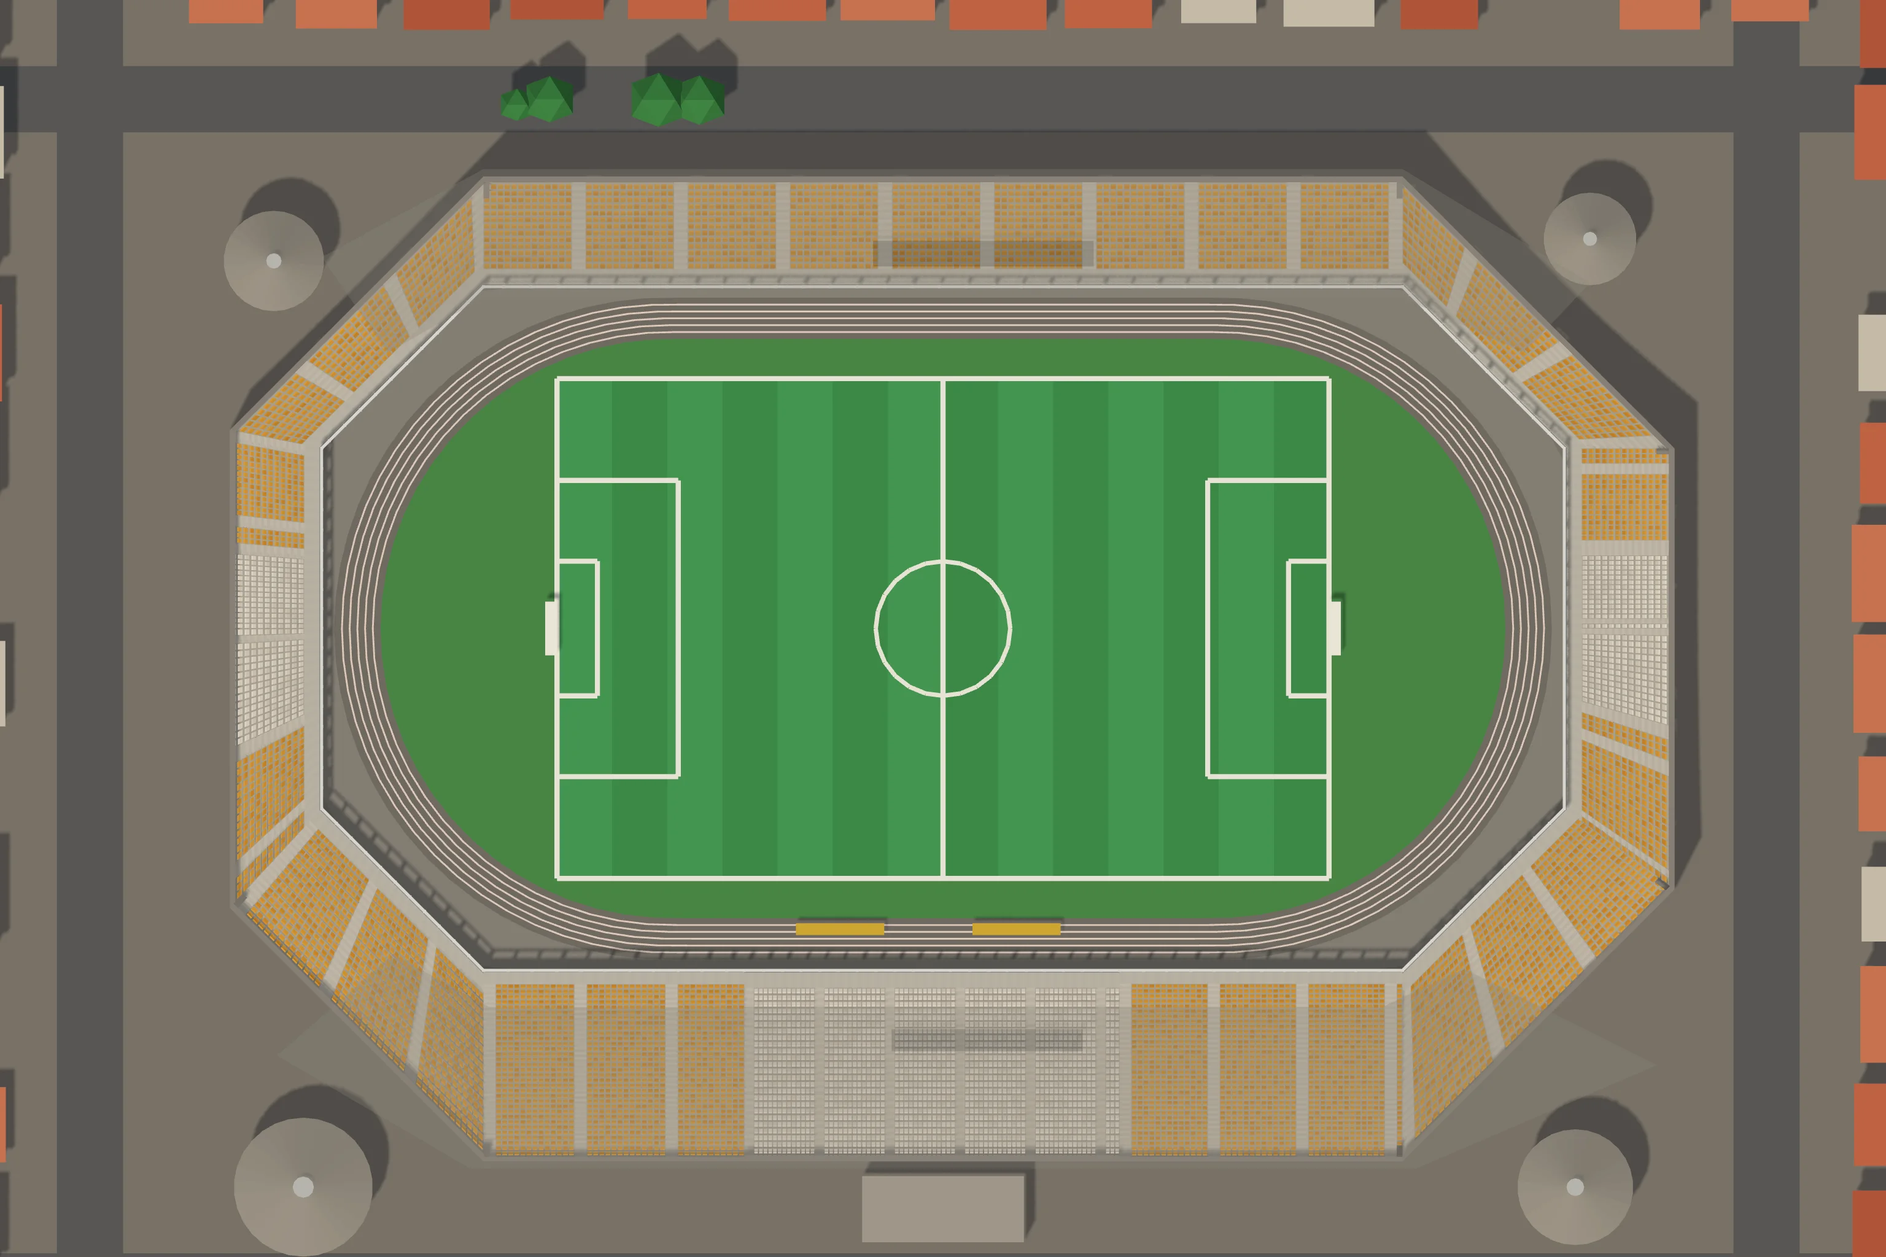
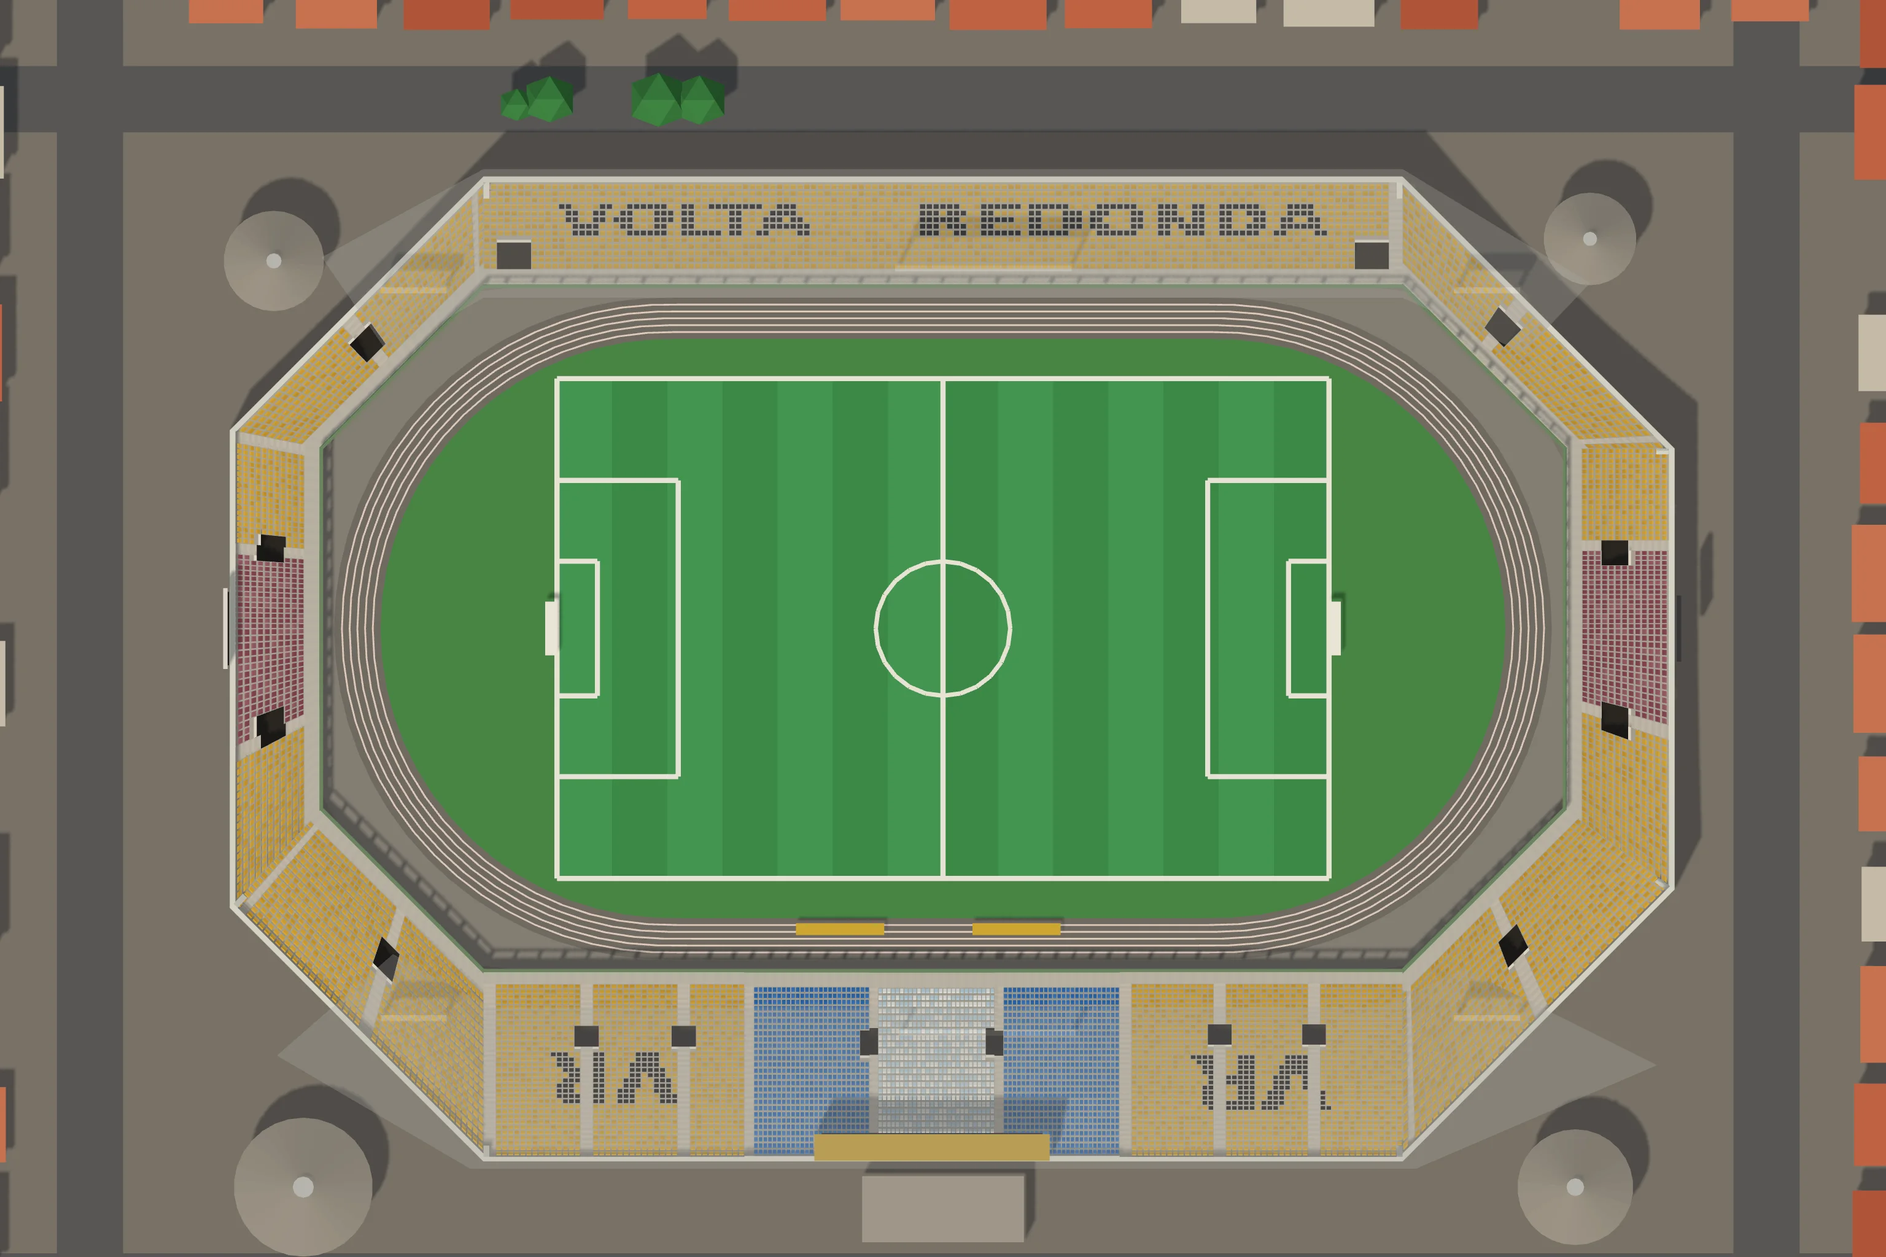
Raulino de Oliveira pelas fotos do dono: VOLTA REDONDA e VR em cadeira preta, bloco azul, grená nos fundos, bocas e torres de luz
Claude-Session: https://claude.ai/code/session_019hwwMAyyP7ZAvyq6wYTetr

diff --git a/cenario3d/planta.html b/cenario3d/planta.html
@@ -289,24 +289,24 @@ button:focus-visible, input:focus-visible { outline: 2px solid var(--selecao); o
 
 <script type="module">
 import * as THREE from 'https://cdn.jsdelivr.net/npm/three@0.160.0/build/three.module.min.js';
-import { planoDaCasa, montarCasa, juntarBlocos, lugarDoDecalque, placasDoLote, segmentosDoMuro, carrosDoEstacionamento, portaoDoEstacionamento } from './js/casas3d.js?v=86bfd87f3f';
-import { montarModelos } from './js/modelos3d.js?v=86bfd87f3f';
-import { moldeDaPeca, comTransformador } from './js/props3d.js?v=86bfd87f3f';
-import { ATLAS } from './js/modelos_atlas.js?v=86bfd87f3f';
-import { Construtor, sorteio } from './js/construtor3d.js?v=86bfd87f3f';
-import { gerarProposta, MAPAS, MAPA_DO_PORTE, RUA, LONGE_DO_ESTADIO_M, cisaoDaPraca, VAO_CIDADES_M, PRAIA_A_MAIS } from './js/proposta.js?v=86bfd87f3f';
-import { montarSede, nivelQueCabe } from './js/sede3d.js?v=86bfd87f3f';
-import { onibus as onibusDetalhe, juntar as juntarDetalhe } from './js/detalhe3d.js?v=86bfd87f3f';
-import { montarLoteDeVeraneio, plantaDoLote, festaNoMundo, noMundoDoLote, cenaDaFesta, detalheDaCasaDaFesta } from './js/veraneio3d.js?v=86bfd87f3f';
-import { montarCaravana, cenaDaCaravana } from './js/caravana3d.js?v=86bfd87f3f';
-import { montarEstacao, montarTunel, montarCarro, TREM } from './js/metro3d.js?v=86bfd87f3f';
-import { montarShopping, montarDelegacia, montarPraca, montarIgreja, montarEscola, montarHospital } from './js/equip3d.js?v=86bfd87f3f';
-import { montarEquipAntigo, TIPOS_ANTIGOS } from './js/equip_antigo3d.js?v=86bfd87f3f';
-import { PECAS_PRAIA, montarPecaDaPraia } from './js/praia3d.js?v=86bfd87f3f';
-import { ESPECIES_LP, FLORA_LP, montarArvoreLowpoly, montarAsDez, facesDaArvore, especieLowpolyDe } from './js/arvores_lowpoly.js?v=86bfd87f3f';
-import { plantarMato, montarMato, LONGE_M, DENSIDADE, LADRILHO_M } from './js/mato3d.js?v=86bfd87f3f';
-import { ESTADIOS_JOGO, montarEstadioJogo, glbDoEstadio, cortarEstadio, plantaDoEstadio, modeloDaLotacao, nomeDoLetreiro, nomeComAcento, marcaDoEstadio, BOCAS_DOS_PORTOES, BILHETERIAS_DA_RUA } from './js/estadios3d.js?v=86bfd87f3f';
-import { PECAS_AMBULANTES, montarAmbulante } from './js/ambulantes3d.js?v=86bfd87f3f';
+import { planoDaCasa, montarCasa, juntarBlocos, lugarDoDecalque, placasDoLote, segmentosDoMuro, carrosDoEstacionamento, portaoDoEstacionamento } from './js/casas3d.js?v=fe04cb4e07';
+import { montarModelos } from './js/modelos3d.js?v=fe04cb4e07';
+import { moldeDaPeca, comTransformador } from './js/props3d.js?v=fe04cb4e07';
+import { ATLAS } from './js/modelos_atlas.js?v=fe04cb4e07';
+import { Construtor, sorteio } from './js/construtor3d.js?v=fe04cb4e07';
+import { gerarProposta, MAPAS, MAPA_DO_PORTE, RUA, LONGE_DO_ESTADIO_M, cisaoDaPraca, VAO_CIDADES_M, PRAIA_A_MAIS } from './js/proposta.js?v=fe04cb4e07';
+import { montarSede, nivelQueCabe } from './js/sede3d.js?v=fe04cb4e07';
+import { onibus as onibusDetalhe, juntar as juntarDetalhe } from './js/detalhe3d.js?v=fe04cb4e07';
+import { montarLoteDeVeraneio, plantaDoLote, festaNoMundo, noMundoDoLote, cenaDaFesta, detalheDaCasaDaFesta } from './js/veraneio3d.js?v=fe04cb4e07';
+import { montarCaravana, cenaDaCaravana } from './js/caravana3d.js?v=fe04cb4e07';
+import { montarEstacao, montarTunel, montarCarro, TREM } from './js/metro3d.js?v=fe04cb4e07';
+import { montarShopping, montarDelegacia, montarPraca, montarIgreja, montarEscola, montarHospital } from './js/equip3d.js?v=fe04cb4e07';
+import { montarEquipAntigo, TIPOS_ANTIGOS } from './js/equip_antigo3d.js?v=fe04cb4e07';
+import { PECAS_PRAIA, montarPecaDaPraia } from './js/praia3d.js?v=fe04cb4e07';
+import { ESPECIES_LP, FLORA_LP, montarArvoreLowpoly, montarAsDez, facesDaArvore, especieLowpolyDe } from './js/arvores_lowpoly.js?v=fe04cb4e07';
+import { plantarMato, montarMato, LONGE_M, DENSIDADE, LADRILHO_M } from './js/mato3d.js?v=fe04cb4e07';
+import { ESTADIOS_JOGO, montarEstadioJogo, glbDoEstadio, cortarEstadio, plantaDoEstadio, modeloDaLotacao, nomeDoLetreiro, nomeComAcento, marcaDoEstadio, BOCAS_DOS_PORTOES, BILHETERIAS_DA_RUA } from './js/estadios3d.js?v=fe04cb4e07';
+import { PECAS_AMBULANTES, montarAmbulante } from './js/ambulantes3d.js?v=fe04cb4e07';
 
 const $ = id => document.getElementById(id);
 const aviso = $('aviso');
@@ -323,25 +323,25 @@ function carregarScript(src) {
 }
 window.TO = window.TO || { dados: {} };
 try {
-  await carregarScript('dados/torcidas.js?v=86bfd87f3f');
-  await carregarScript('dados/times.js?v=86bfd87f3f');
-  await carregarScript('dados/cena_estadio.js?v=86bfd87f3f');
-  await carregarScript('dados/cidades.js?v=86bfd87f3f');
-  await carregarScript('dados/estadios.js?v=86bfd87f3f');
-  await carregarScript('dados/escudos.js?v=86bfd87f3f');
+  await carregarScript('dados/torcidas.js?v=fe04cb4e07');
+  await carregarScript('dados/times.js?v=fe04cb4e07');
+  await carregarScript('dados/cena_estadio.js?v=fe04cb4e07');
+  await carregarScript('dados/cidades.js?v=fe04cb4e07');
+  await carregarScript('dados/estadios.js?v=fe04cb4e07');
+  await carregarScript('dados/escudos.js?v=fe04cb4e07');
   /* o manifesto das faixas de verdade (a arte do dono, 29/09/2026): a arquibancada estende a da torcida */
-  await carregarScript('dados/faixas.js?v=86bfd87f3f').catch(() => {});
+  await carregarScript('dados/faixas.js?v=fe04cb4e07').catch(() => {});
   /* O DOMÍNIO DOS BAIRROS (o dono, 30/09/2026): as sedes repetidas num
      bairro saem espalhadas (nos dados, na carga) e os bares ganham o
      bairro deles — o mesmo módulo do jogo (js/mundo/dominio.js) */
-  await carregarScript('js/dominio.js?v=86bfd87f3f').catch(() => {});
+  await carregarScript('js/dominio.js?v=fe04cb4e07').catch(() => {});
 } catch (e) {
   aviso.textContent = 'A planta da cidade não carregou (' + e.message + '). Recarregue a página.';
   throw e;
 }
 /* os PNG dos escudos, embutidos (o montar.sh gera): sem o arquivo, o
    caminho vai direto pra img/escudos/ */
-await carregarScript('dados/escudos_embutidos.js?v=86bfd87f3f').catch(() => {});
+await carregarScript('dados/escudos_embutidos.js?v=fe04cb4e07').catch(() => {});
 const P = TO.dados.plantaEstadio, K = P.CIDADE, M = P.METRO, CALC = K.CALC;
 /* o mapa da vez (o pequeno, o médio ou o grande, montado pra praça
    escolhida): quem monta é usarMapa, lá embaixo */

diff --git a/cenario3d/dados/estadios_cenas.js b/cenario3d/dados/estadios_cenas.js
@@ -14828,7 +14828,7 @@ window.__ESTADIOS = {
    "visitante": 3
   },
   "foto": {
-   "imagem": "img/cenas/estadio_raulino_de_oliveira.webp?v=0d989271",
+   "imagem": "img/cenas/estadio_raulino_de_oliveira.webp?v=d6117ecb",
    "mascara": "384;384;384;384;384;384;384;384;384;384;384;384;384;384;384;384;384;384;384;384;384;384;384;384;384;384;384;384;384;384;384;384;384;384;384;384;384;98,188,98;97,190,97;96,192,96;95,194,95;94,196,94;93,198,93;92,200,92;91,202,91;90,204,90;89,206,89;88,208,88;87,210,87;86,212,86;85,214,85;84,216,84;83,218,83;82,220,82;81,222,81;80,224,80;79,226,79;78,228,78;77,20,190,20,77;76,20,192,20,76;75,20,194,20,75;74,20,196,20,74;73,20,198,20,73;72,20,200,20,72;71,20,202,20,71;70,20,204,20,70;69,20,206,20,69;68,20,208,20,68;67,21,208,21,67;66,21,210,21,66;65,21,212,21,65;64,21,214,21,64;63,21,216,21,63;62,21,218,21,62;61,21,220,21,61;60,21,222,21,60;59,21,224,21,59;58,21,226,21,58;57,21,228,21,57;56,21,230,21,56;55,21,232,21,55;54,21,234,21,54;53,21,236,21,53;52,21,238,21,52;51,21,240,21,51;50,21,242,21,50;49,21,244,21,49;48,21,246,21,48;48,20,248,21,47;48,19,250,21,46;48,18,252,21,45;48,17,254,21,44;48,17,254,21,44;48,17,254,21,44;48,17,254,21,44;48,17,254,21,44;48,17,254,21,44;48,17,254,21,44;48,17,254,21,44;48,17,254,21,44;48,17,254,21,44;48,17,254,21,44;48,17,254,21,44;48,17,254,21,44;48,17,254,21,44;48,17,254,21,44;48,17,254,21,44;48,17,254,21,44;48,17,254,21,44;48,17,254,21,44;48,17,254,21,44;48,17,254,21,44;48,17,254,21,44;48,17,254,21,44;48,17,254,21,44;48,17,254,21,44;48,17,254,21,44;48,17,254,21,44;48,17,254,21,44;48,17,254,21,44;48,17,254,21,44;48,17,254,21,44;48,17,254,21,44;48,17,254,21,44;48,17,254,21,44;48,17,254,21,44;48,17,254,21,44;48,17,254,21,44;48,17,254,21,44;48,17,254,21,44;48,17,254,21,44;48,17,254,21,44;48,17,254,21,44;48,17,254,21,44;48,17,254,21,44;48,17,254,21,44;48,17,254,21,44;48,17,254,21,44;48,17,254,21,44;48,17,254,21,44;48,17,254,21,44;48,17,254,21,44;48,17,254,21,44;48,17,254,21,44;48,17,254,21,44;48,17,254,21,44;48,17,254,21,44;48,17,254,21,44;48,17,254,21,44;48,17,254,21,44;48,17,254,21,44;48,17,254,21,44;48,17,254,21,44;48,17,254,21,44;48,17,254,21,44;48,17,254,21,44;48,17,254,21,44;48,17,254,21,44;48,17,254,21,44;48,17,254,21,44;48,17,254,21,44;48,17,254,21,44;48,17,254,21,44;48,17,254,21,44;48,17,254,21,44;48,18,252,22,44;48,19,250,23,44;48,20,248,24,44;48,21,246,25,44;48,22,244,26,44;48,23,242,27,44;48,24,240,28,44;48,25,238,29,44;48,26,236,30,44;48,27,234,31,44;48,28,232,32,44;48,29,230,33,44;48,30,228,34,44;48,31,226,35,44;48,32,224,36,44;48,33,222,37,44;48,34,220,38,44;48,35,218,38,45;48,36,216,38,46;48,37,214,38,47;48,38,212,38,48;49,38,210,38,49;50,38,208,38,50;51,37,208,37,51;52,37,206,37,52;53,37,204,37,53;54,37,202,37,54;55,37,200,37,55;56,37,198,37,56;57,37,196,37,57;58,37,194,37,58;59,37,192,37,59;60,37,190,37,60;61,262,61;62,260,62;63,258,63;64,256,64;65,254,65;66,252,66;67,250,67;68,248,68;69,246,69;70,244,70;71,242,71;72,240,72;73,238,73;74,236,74;75,234,75;76,232,76;77,230,77;78,228,78;79,226,79;80,224,80;81,222,81;82,220,82;83,218,83;84,216,84;85,214,85;86,212,86;87,210,87;88,208,88;89,206,89;90,204,90;91,202,91;92,200,92;93,198,93;94,196,94;95,194,95;96,192,96;97,190,97;98,188,98;384;384;384;384;384;384;384;384;384;384;384;384;384;384;384;384;384;384;384;384"
   },
   "cena": {
@@ -14947,11 +14947,11 @@ window.__ESTADIOS = {
      "lado": "mandante",
      "raio": 40,
      "dir": [
-      0,
-      1
+      0.15,
+      0.99
      ],
-     "x": 1536,
-     "y": 1861
+     "x": 1620,
+     "y": 1694
     },
     {
      "id": "portao_visitante",
@@ -14959,11 +14959,11 @@ window.__ESTADIOS = {
      "lado": "visitante",
      "raio": 40,
      "dir": [
-      1,
-      0
+      0.99,
+      0.12
      ],
-     "x": 2710,
-     "y": 1024
+     "x": 2628,
+     "y": 1176
     }
    ],
    "pmPostos": [

diff --git a/cenario3d/js/jogo2d.js b/cenario3d/js/jogo2d.js
@@ -17,7 +17,7 @@
    cartão da partida cai perto da hora da bola e nada do que conta o
    placar passa na frente dele.
    ========================================================= */
-import { CASCA } from './jogo_casca.js?v=86bfd87f3f';
+import { CASCA } from './jogo_casca.js?v=fe04cb4e07';
 
 const carregarScript = src => new Promise((ok, erro) => {
   const s = document.createElement('script');
@@ -31,17 +31,17 @@ async function montarJogo() {
   caixa.innerHTML = CASCA;
   while (caixa.firstChild) document.body.appendChild(caixa.firstChild);
   /* os escudos, as fotos das praças e as bandeiras embutidos (o `IMG()` do jogo procura aqui antes do caminho) */
-  await carregarScript('dados/imagens_jogo.js?v=86bfd87f3f').catch(() => {});
+  await carregarScript('dados/imagens_jogo.js?v=fe04cb4e07').catch(() => {});
   /* os estádios low-poly das cenas (ferramentas/estadios/assar.js): antes do jogo, que monta as cenas quando carrega */
-  await carregarScript('dados/estadios_cenas.js?v=86bfd87f3f').catch(() => {});
+  await carregarScript('dados/estadios_cenas.js?v=fe04cb4e07').catch(() => {});
   /* sem o rolo do feed: a tela entre os jogos é o portal */
   window.TO = window.TO || {};
   TO.semFeed = true;
-  await carregarScript('js/jogo.js?v=86bfd87f3f');
-  await carregarScript('js/portal.js?v=86bfd87f3f').catch(err => console.error('o portal não carregou:', err));
+  await carregarScript('js/jogo.js?v=fe04cb4e07');
+  await carregarScript('js/portal.js?v=fe04cb4e07').catch(err => console.error('o portal não carregou:', err));
   /* o boneco das cenas de imagem (os dois níveis afinados, em base64) */
-  if (!TO.dados.bonecoPertoGLB) await carregarScript('dados/boneco_glb.js?v=86bfd87f3f').catch(() => {});
-  await import('./bonecos3_global.js?v=86bfd87f3f').catch(err => console.error('o boneco das cenas não carregou:', err));
+  if (!TO.dados.bonecoPertoGLB) await carregarScript('dados/boneco_glb.js?v=fe04cb4e07').catch(() => {});
+  await import('./bonecos3_global.js?v=fe04cb4e07').catch(err => console.error('o boneco das cenas não carregou:', err));
   ligar();
 }
 

diff --git a/cenario3d/jogo.html b/cenario3d/jogo.html
@@ -9,16 +9,16 @@
 <link rel="preconnect" href="https://fonts.googleapis.com">
 <link rel="preconnect" href="https://fonts.gstatic.com" crossorigin>
 <link rel="stylesheet" href="https://fonts.googleapis.com/css2?family=Barlow+Semi+Condensed:wght@500;600;700&family=Barlow:wght@400;500;600&family=IBM+Plex+Mono:wght@400;500&display=swap">
-<link rel="stylesheet" href="css/jogo.css?v=86bfd87f3f">
-<link rel="stylesheet" href="css/jogo3d.css?v=86bfd87f3f">
-<link rel="stylesheet" href="css/portal.css?v=86bfd87f3f">
-<link rel="stylesheet" href="css/telas3d.css?v=86bfd87f3f">
+<link rel="stylesheet" href="css/jogo.css?v=fe04cb4e07">
+<link rel="stylesheet" href="css/jogo3d.css?v=fe04cb4e07">
+<link rel="stylesheet" href="css/portal.css?v=fe04cb4e07">
+<link rel="stylesheet" href="css/telas3d.css?v=fe04cb4e07">
 <style>
 [hidden] { display: none !important; }
 html, body { height: 100%; margin: 0; }
 </style>
 </head>
 <body class="jogo3d">
-<script type="module" src="js/jogo2d.js?v=86bfd87f3f"></script>
+<script type="module" src="js/jogo2d.js?v=fe04cb4e07"></script>
 </body>
 </html>

diff --git a/cenario3d/js/casas3d.js b/cenario3d/js/casas3d.js
@@ -60,10 +60,10 @@
    avançam (`rec`), e o letreiro, a pixação e a falha de reboco do
    bairro vão pro plano dessa parede, não pro da divisa.
    ========================================================= */
-import { Construtor, METRO, mureta, toldo, arSplit, sorteio } from './construtor3d.js?v=86bfd87f3f';
-import { ATLAS } from './modelos_atlas.js?v=86bfd87f3f';
+import { Construtor, METRO, mureta, toldo, arSplit, sorteio } from './construtor3d.js?v=fe04cb4e07';
+import { ATLAS } from './modelos_atlas.js?v=fe04cb4e07';
 /* as lojas do assalto (lojas3d.js): modelos de lote como os outros */
-import { TIPOS_LOJA, REC_LOJA, placaDaLoja } from './lojas3d.js?v=86bfd87f3f';
+import { TIPOS_LOJA, REC_LOJA, placaDaLoja } from './lojas3d.js?v=fe04cb4e07';
 
 /* o arquivo de cada folha, pro bairro montar o material dele */
 export const arquivoDaFolha = folha => ATLAS[folha].arquivo;

diff --git a/cenario3d/js/ambulantes3d.js b/cenario3d/js/ambulantes3d.js
@@ -27,8 +27,8 @@
    que a planta acha o lugar dela na calçada do estádio. `sol`: o meio e
    o raio da copa ([x, z, r]), que o mapa desenha de perto.
    ========================================================= */
-import { Construtor, noMundo, placasNoMundo, sorteio, esfera, unit } from './construtor3d.js?v=86bfd87f3f';
-import { Lugar, barra, tubo, cilindro, bloco, pano, toro, guardaSol, cadeiraPlastica, isopor, banqueta, CORES_SOL } from './praia3d.js?v=86bfd87f3f';
+import { Construtor, noMundo, placasNoMundo, sorteio, esfera, unit } from './construtor3d.js?v=fe04cb4e07';
+import { Lugar, barra, tubo, cilindro, bloco, pano, toro, guardaSol, cadeiraPlastica, isopor, banqueta, CORES_SOL } from './praia3d.js?v=fe04cb4e07';
 
 const AQUI = Lugar();
 const escolha = (rnd, lista) => lista[Math.floor(rnd() * lista.length) % lista.length];

diff --git a/cenario3d/js/praia3d.js b/cenario3d/js/praia3d.js
@@ -36,8 +36,8 @@
    cadeira e a mesa de plástico) servem também os ambulantes da porta do
    estádio (ambulantes3d.js), na mesma folha.
    ========================================================= */
-import { Construtor, METRO, lerp, sub, soma, esc, unit, pv, noMundo, placasNoMundo, sorteio, varrer, esfera } from './construtor3d.js?v=86bfd87f3f';
-import { montarArvoreLowpoly } from './arvores_lowpoly.js?v=86bfd87f3f';
+import { Construtor, METRO, lerp, sub, soma, esc, unit, pv, noMundo, placasNoMundo, sorteio, varrer, esfera } from './construtor3d.js?v=fe04cb4e07';
+import { montarArvoreLowpoly } from './arvores_lowpoly.js?v=fe04cb4e07';
 
 const ALTO = [0, 1, 0];
 const escolha = (rnd, lista) => lista[Math.floor(rnd() * lista.length) % lista.length];

diff --git a/cenario3d/js/modelos3d.js b/cenario3d/js/modelos3d.js
@@ -32,8 +32,8 @@
    requadro da janela, toldo, ar-condicionado. O resto é pintura.
    ========================================================= */
 import * as THREE from 'https://cdn.jsdelivr.net/npm/three@0.160.0/build/three.module.min.js';
-import { ATLAS } from './modelos_atlas.js?v=86bfd87f3f';
-import { Construtor, METRO, lerp, sub, soma, esc, pv, pe, unit, recuoPoligono, mureta, toldo, arSplit } from './construtor3d.js?v=86bfd87f3f';
+import { ATLAS } from './modelos_atlas.js?v=fe04cb4e07';
+import { Construtor, METRO, lerp, sub, soma, esc, pv, pe, unit, recuoPoligono, mureta, toldo, arSplit } from './construtor3d.js?v=fe04cb4e07';
 
 /* =======================================================
    1. A IGREJA MATRIZ

diff --git a/cenario3d/js/props3d.js b/cenario3d/js/props3d.js
@@ -26,8 +26,8 @@
    poste vira uma haste de longe; o resto, que é miúdo, some.
    ========================================================= */
 import * as THREE from 'https://cdn.jsdelivr.net/npm/three@0.160.0/build/three.module.min.js';
-import { ATLAS } from './modelos_atlas.js?v=86bfd87f3f';
-import { Construtor, METRO, lerp } from './construtor3d.js?v=86bfd87f3f';
+import { ATLAS } from './modelos_atlas.js?v=fe04cb4e07';
+import { Construtor, METRO, lerp } from './construtor3d.js?v=fe04cb4e07';
 
 /* as cores que o vértice dá pro que sai claro na folha */
 const COR_CESTO = ['#6aa33a', '#d2b53a', '#3f82ad', '#8b6a3c', '#b8452f'];

diff --git a/cenario3d/js/mato3d.js b/cenario3d/js/mato3d.js
@@ -19,8 +19,8 @@
 
    Tudo em metros; `noMundo` converte. A mesma semente dá o mesmo mato.
    ========================================================= */
-import { METRO, noMundo, sorteio } from './construtor3d.js?v=86bfd87f3f';
-import { facesDaArvore, especieLowpolyDe } from './arvores_lowpoly.js?v=86bfd87f3f';
+import { METRO, noMundo, sorteio } from './construtor3d.js?v=fe04cb4e07';
+import { facesDaArvore, especieLowpolyDe } from './arvores_lowpoly.js?v=fe04cb4e07';
 
 /* a área de chão de cada árvore (m²), por lugar */
 export const DENSIDADE = { mata: 70, cerrado: 200, caatinga: 150, sul: 90, praia: 120, cidade: 250 };

diff --git a/cenario3d/js/bonecos3_global.js b/cenario3d/js/bonecos3_global.js
@@ -14,7 +14,7 @@
    DOMContentLoaded: quem usa (a ponte, numa cena aberta pelo jogador)
    chega muito depois.
    ========================================================= */
-import { montar, desenharDeCima, desenharVitrine, limparDeCima, fotoDoTrofeu, fotoDaBriga, fotoDaCena, perdeu, bonecos } from './bonecos3_cena.js?v=86bfd87f3f';
+import { montar, desenharDeCima, desenharVitrine, limparDeCima, fotoDoTrofeu, fotoDaBriga, fotoDaCena, perdeu, bonecos } from './bonecos3_cena.js?v=fe04cb4e07';
 
 window.TO = window.TO || {};
 TO.diaJogo = TO.diaJogo || {};

diff --git a/cenario3d/js/bonecos3_cena.js b/cenario3d/js/bonecos3_cena.js
@@ -103,7 +103,7 @@
       numa fase sorteada (quem sai junto não sai no mesmo pé).
    ========================================================= */
 import * as THREE from 'https://cdn.jsdelivr.net/npm/three@0.160.0/build/three.module.min.js';
-import { GLTFLoader, SkeletonUtils } from './GLTFLoader.js?v=86bfd87f3f';
+import { GLTFLoader, SkeletonUtils } from './GLTFLoader.js?v=fe04cb4e07';
 
 /* onde o modelo mora, quando não vem embutido em base64: o detalhado
    (o do Blender) e os dois níveis afinados dele (ferramentas/afinar_boneco.mjs) */
